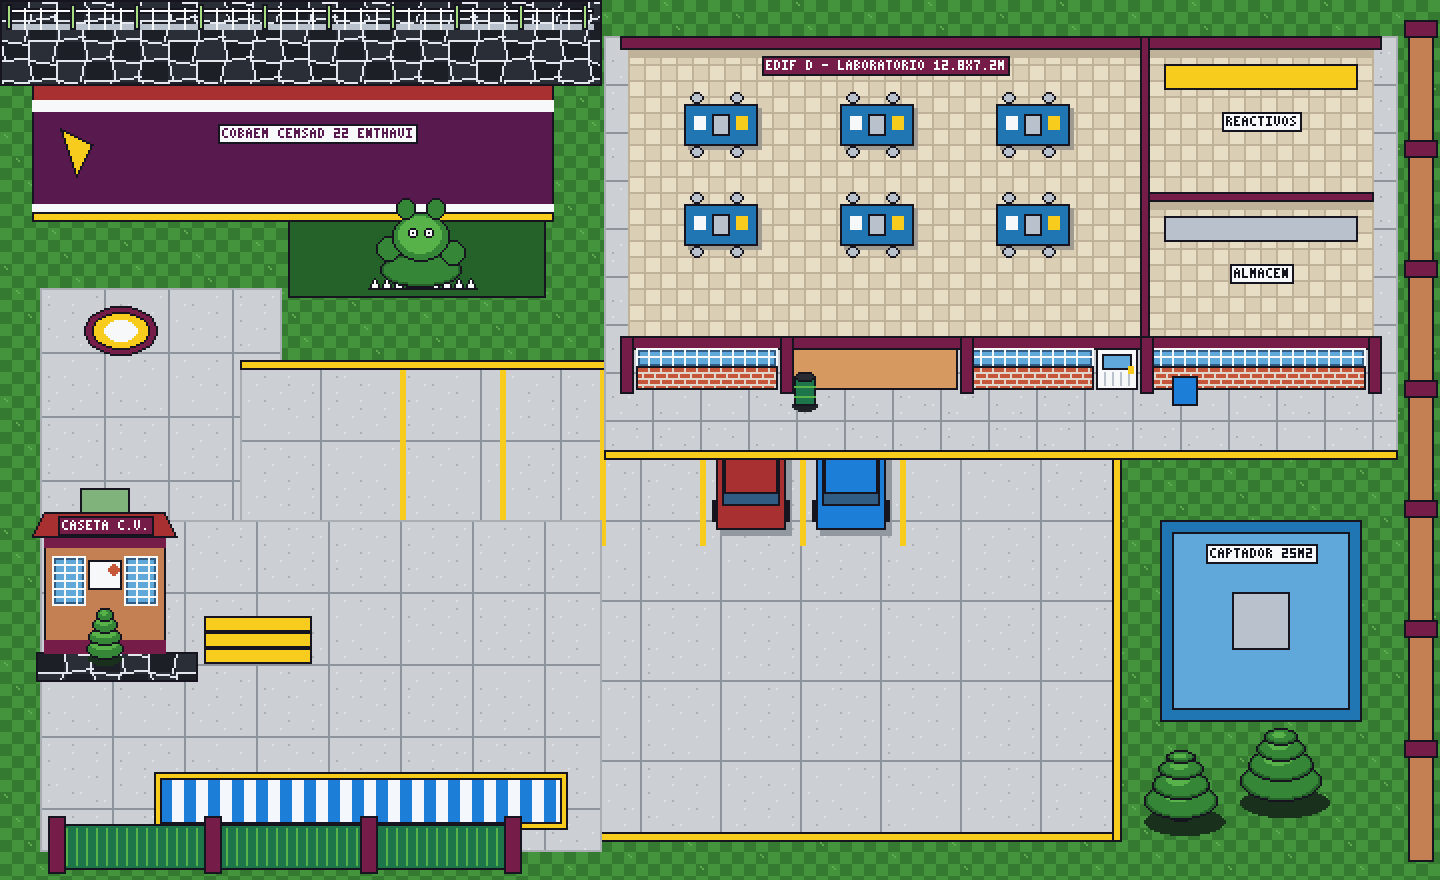
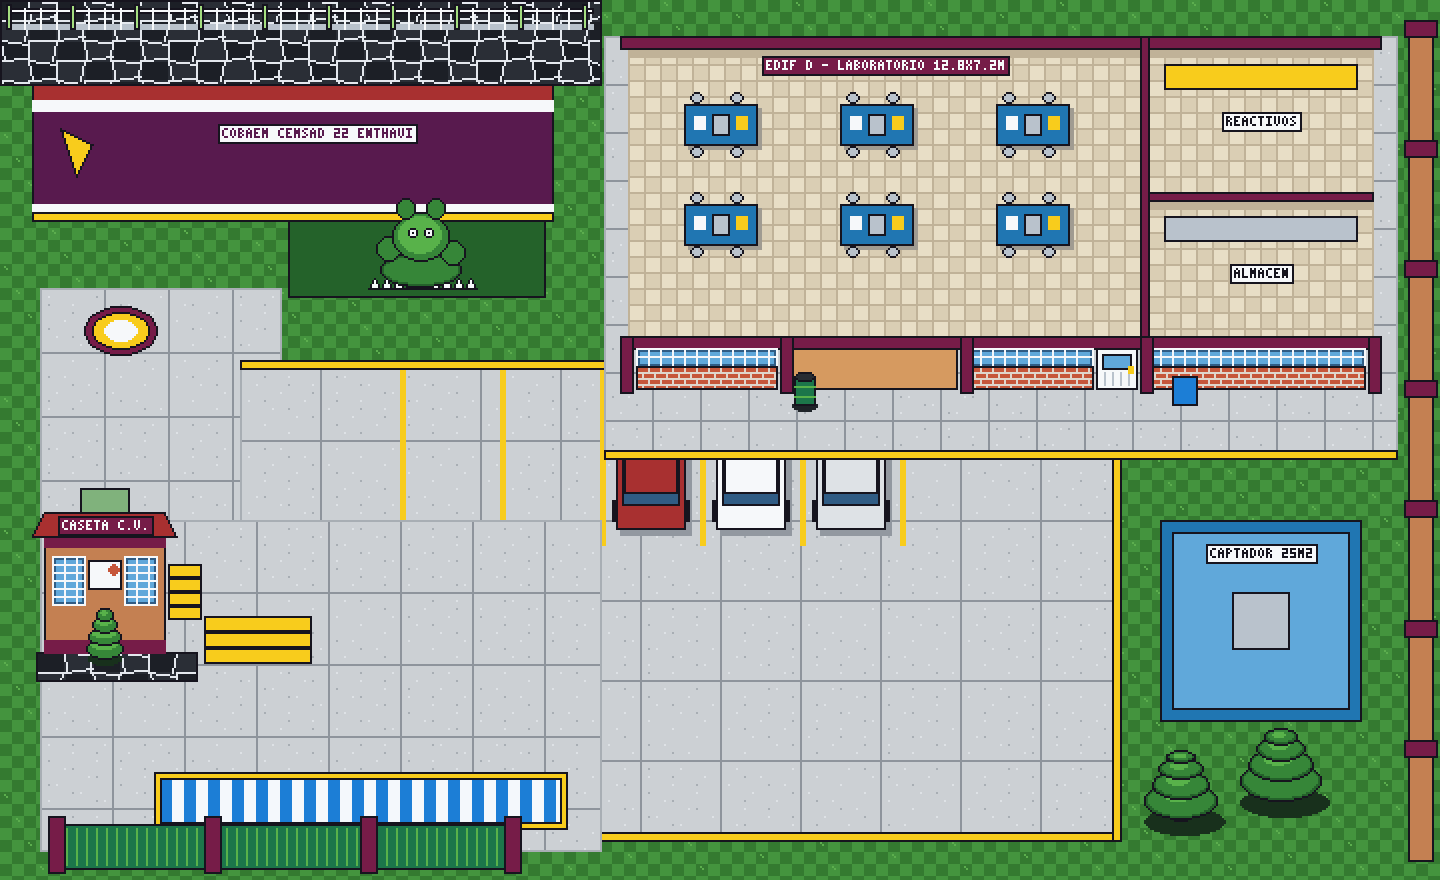
pre armado de escenarios

Changed region(s): [[0.4062, 0.5216, 0.625, 0.6136], [0.0938, 0.6443, 0.1562, 0.7057]]

diff --git a/tools/generate_scenarios.py b/tools/generate_scenarios.py
@@ -384,11 +384,13 @@ def generate_scenario_1():
     draw.rectangle([px1, py1, px2, py1 + 4], fill=PAL["curb_yellow"], outline=PAL["outline"])
     draw.rectangle([px1, py2 - 4, px2, py2], fill=PAL["curb_yellow"], outline=PAL["outline"])
     draw.rectangle([px2 - 4, py1, px2, py2], fill=PAL["curb_yellow"], outline=PAL["outline"])
-    # Líneas amarillas de los cajones de estacionamiento y vehículos estacionados en los últimos cajones
+    # Líneas amarillas de los cajones de estacionamiento y vehículos estacionados (fotos Estacionamiento y barda.jpg)
     for cx in range(px1 + 80, px1 + 335, 50):
         draw.rectangle([cx, py1 + 5, cx + 2, py1 + 92], fill=PAL["curb_yellow"])
-    draw_car_3d(draw, px1 + 255, py1 + 52, PAL["roof_red"])
-    draw_car_3d(draw, px1 + 305, py1 + 52, PAL["zebra_blue"])
+    # 3 autos reales observados en las fotos de campo:
+    draw_car_3d(draw, px1 + 205, py1 + 52, PAL["roof_red"])       # Sedán rojo tipo VW Vento
+    draw_car_3d(draw, px1 + 255, py1 + 52, PAL["white"])          # Hatchback blanco tipo Mazda 2
+    draw_car_3d(draw, px1 + 305, py1 + 52, PAL["concrete_light"]) # Utilitaria blanca tipo Renault Kangoo
 
     # 5. Plaza de Acceso Principal (14.00m x 8.00m = 280 x 160 texeles) y Caseta C.V. (3.00m x 2.50m = 60 x 50 texeles)
     ax1, ay1, ax2, ay2 = 20, 260, 300, 425
@@ -410,6 +412,9 @@ def generate_scenario_1():
     draw.rectangle([cv_x1 + 22, cv_y1 + 12, cv_x2 - 22, cv_y1 + 26], fill=PAL["white"], outline=PAL["outline"])
     draw.ellipse([cv_x2 - 28, cv_y1 + 14, cv_x2 - 23, cv_y1 + 19], fill=PAL["brick_red"])
     draw_spiral_topiary(draw, cv_x1 + 30, cv_y2 - 2)
+    # Escalones amarillos de acceso junto a caseta (foto Caseta CV.jpg)
+    for sy in range(cv_y1 + 14, cv_y1 + 36, 7):
+        draw.rectangle([cv_x2 + 2, sy, cv_x2 + 18, sy + 6], fill=PAL["curb_yellow"], outline=PAL["outline"])
     draw_pixel_sign(draw, (cv_x1 + cv_x2) // 2, cv_y1 - 6, "CASETA C.V.", bg=PAL["guinda"], fg=PAL["white"])
 
     # Portón Triple Abatible verde con pilares color vino/guinda (foto 095144.jpg)
@@ -540,6 +545,12 @@ def generate_scenario_2():
         draw.rectangle([tx + 13, ty - 4, tx + 18, ty + 4], fill=PAL["curb_yellow"], outline=PAL["outline"])
         draw.rectangle([tx - 4, ty - 16, tx + 4, ty - 11], fill=PAL["green_bldg"], outline=PAL["outline"])
         draw.rectangle([tx - 4, ty + 11, tx + 4, ty + 16], fill=PAL["zebra_blue"], outline=PAL["outline"])
+    # Mesa picnic con mantel azul institucional y bancos oscuros (foto cafeteria.jpg)
+    pic_x, pic_y = caf_x1 + 40, ay1 + 84
+    draw.rectangle([pic_x - 18, pic_y - 8, pic_x + 18, pic_y + 8], fill=PAL["zebra_blue"], outline=PAL["outline"])
+    draw.rectangle([pic_x - 16, pic_y - 6, pic_x + 16, pic_y + 6], fill=PAL["window_glass"])
+    draw.rectangle([pic_x - 18, pic_y - 14, pic_x + 18, pic_y - 10], fill=PAL["stone_dark"], outline=PAL["outline"])
+    draw.rectangle([pic_x - 18, pic_y + 10, pic_x + 18, pic_y + 14], fill=PAL["stone_dark"], outline=PAL["outline"])
 
     # 2. Almacén General (3.80m x 7.00m = 76 x 140 texeles)
     alm_x1, alm_x2 = caf_x2 + 8, caf_x2 + 8 + m_to_t(3.80)
@@ -584,6 +595,9 @@ def generate_scenario_2():
 
     for cx in range(ax1, ax2 + 1, 70):
         draw.rectangle([cx, fy1 - 6, cx + 8, fy2], fill=PAL["guinda"], outline=PAL["outline"])
+    # Remate de módulo de tabique rojo en azotea (visible en fotos Pasillo Edificio A y arcotecho)
+    draw.rectangle([ax1 + 220, fy1 - 18, ax1 + 265, fy1], fill=PAL["brick_red"], outline=PAL["outline"])
+    draw.rectangle([ax1 + 220, fy1 - 18, ax1 + 265, fy1 - 15], fill=PAL["brick_dark"])
 
     # Placas arquitectónicas del Edificio A
     draw_pixel_sign(draw, (caf_x1 + caf_x2) // 2, fy1 + 3, "CAFETERIA 6.2X7M", bg=PAL["guinda"], fg=PAL["white"])
@@ -625,6 +639,10 @@ def generate_scenario_3():
 
     draw.rectangle([sx2, sy1, sx2 + 10, sy2 - 36], fill=PAL["alfarda_rose"], outline=PAL["outline"])
     draw.rectangle([sx2 + 2, sy1, sx2 + 8, sy2 - 38], fill=PAL["guinda_light"])
+    # Puerta metálica corrediza de bodega bajo rampa (foto Escaleras a Edificio B.jpg)
+    draw.rectangle([sx2 - 14, sy2 - 76, sx2 + 9, sy2 - 38], fill=PAL["white"], outline=PAL["outline"])
+    for rx in range(sx2 - 11, sx2 + 8, 4):
+        draw.line([(rx, sy2 - 74), (rx, sy2 - 40)], fill=PAL["silver"])
     draw_pixel_sign(draw, (sx1 + sx2) // 2, sy2 - 8, "ESCALINATA S +4M", bg=PAL["guinda"], fg=PAL["white"])
 
     # PLAZA CÍVICA CON TECHUMBRE METÁLICA (34.00m x 22.00m = 680 x 440 texeles)
@@ -640,6 +658,15 @@ def generate_scenario_3():
     mid_cy = (court_y1 + court_y2) // 2
     draw.line([(mid_cx, court_y1), (mid_cx, court_y2)], fill=PAL["zebra_blue"], width=2)
     draw.ellipse([mid_cx - 36, mid_cy - 36, mid_cx + 36, mid_cy + 36], outline=PAL["curb_yellow"], width=2)
+    # Red de voleibol con postes anclados en llantas de concreto (foto arcotecho, edificio A y pared.jpg)
+    for vx in [mid_cx - 70, mid_cx + 70]:
+        draw.ellipse([vx - 7, mid_cy + 14, vx + 7, mid_cy + 22], fill=PAL["stone_black"], outline=PAL["outline"])
+        draw.ellipse([vx - 5, mid_cy + 15, vx + 5, mid_cy + 20], fill=PAL["concrete_dark"])
+        draw.line([(vx, mid_cy - 28), (vx, mid_cy + 16)], fill=PAL["silver"], width=2)
+    for ny in range(mid_cy - 26, mid_cy - 8, 4):
+        draw.line([(mid_cx - 70, ny), (mid_cx + 70, ny)], fill=PAL["white"], width=1)
+    for nx in range(mid_cx - 66, mid_cx + 66, 8):
+        draw.line([(nx, mid_cy - 26), (nx, mid_cy - 8)], fill=PAL["white"], width=1)
 
     # Muro de Contención Norte de Piedra Braza Negra con Juntas Blancas
     wall_y1, wall_y2 = py1 + 12, py1 + 88
@@ -880,6 +907,12 @@ def generate_scenario_5():
     draw_pixel_sign(draw, (a5_x1 + a5_x2) // 2, fy1 - 2, "AULA 5 - 501", bg=PAL["green_bldg_dark"], fg=PAL["white"])
 
     draw.rectangle([x_ss + 4, fy2 + 2, x_ss + 22, fy2 + 10], fill=PAL["stone_black"], outline=PAL["outline"])
+    # Vitrina / exhibidor de trofeos en andador (foto Edificio C exhibidor.jpg)
+    exh_x = x_dir + 4
+    draw.rectangle([exh_x, fy2 + 2, exh_x + 18, fy2 + 10], fill=PAL["white"], outline=PAL["outline"])
+    draw.rectangle([exh_x + 2, fy2 + 3, exh_x + 16, fy2 + 8], fill=PAL["window_glass"])
+    draw.point((exh_x + 6, fy2 + 5), fill=PAL["curb_yellow"])
+    draw.point((exh_x + 12, fy2 + 5), fill=PAL["curb_yellow"])
     draw_green_trash_drum(draw, a5_x1 + 30, fy2 + 4)
 
     # 3. ANDADOR PRINCIPAL, JARDÍN DEL ASTA BANDERA Y RAMPA A LA CANCHA
